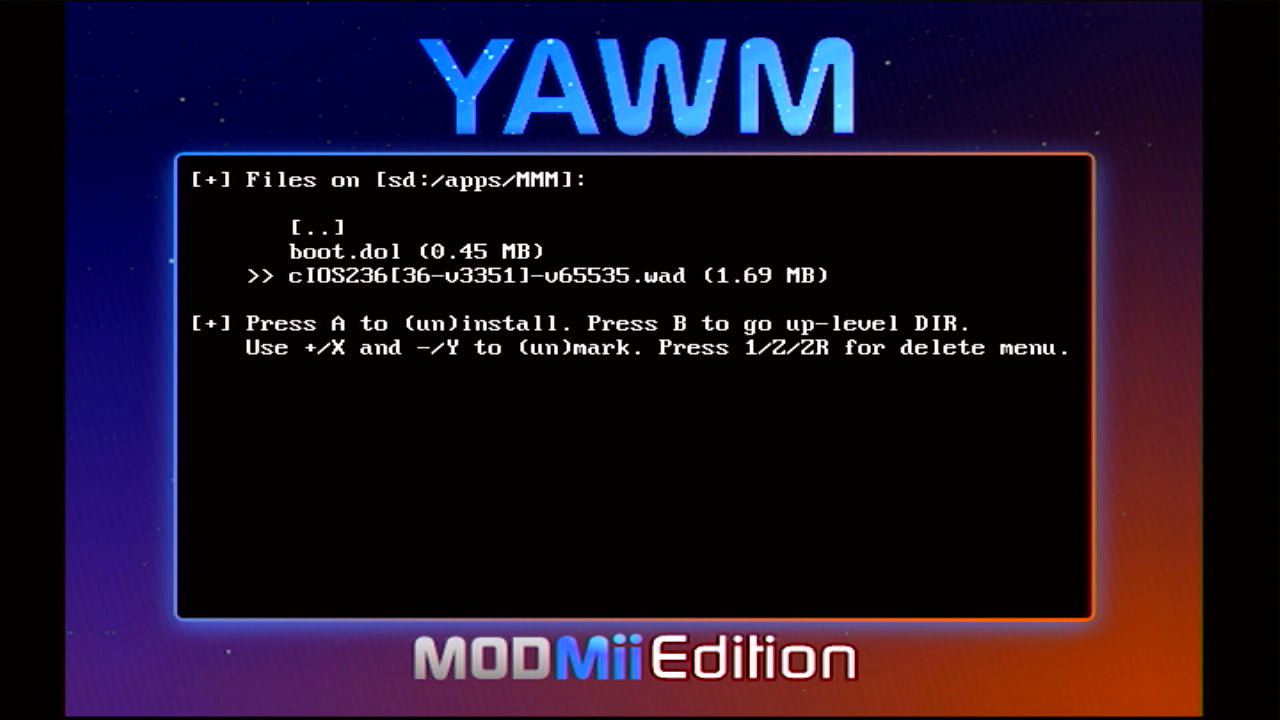
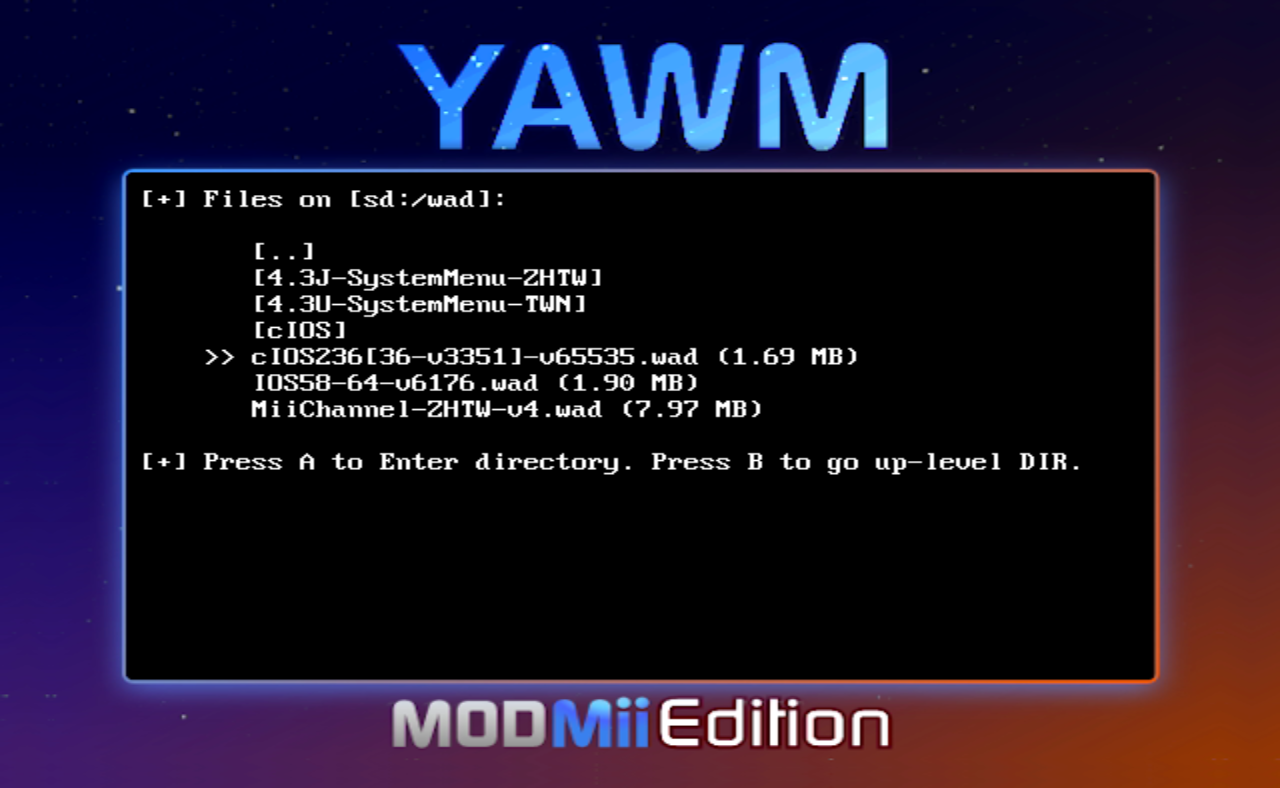
《Step 3: 安装 cIOS236》优化

diff --git a/cios236/README.md b/cios236/README.md
@@ -30,12 +30,15 @@ cIOS236 是官方 IOS36 的补丁版本，它能够为自制 APP 提供稳定的
 
 - IOS36-64-v3608.wad 是最新的 IOS36 安装文件，MMM 将基于它制作出 cIOS236；
 
-- 如果你无法在 MMM 中完成 cIOS236 的安装，在 `apps/MMM` 文件夹里有一个 cIOS236 的安装文件（.wad 格式），请参考[《Step 2: 安装 USB Loader 使用的 cIOS》](@ref step2)中的操作步骤来安装 cIOS236，然后略过本文余下的内容，跳转到[《Step 4: 安装 IOS58》](@ref step4)继续操作：<br/>
+- 如果你无法在 MMM 中安装 cIOS236，请参考[《Step 2: 安装 USB Loader 使用的 cIOS》](@ref step2)中的操作步骤，使用 YAWM ModMii Edition 来安装 `wad` 文件夹里的 cIOS236[36-v3351]-v65535.wad，然后略过本文余下的内容，跳转到[《Step 4: 安装 IOS58》](@ref step4)继续操作：<br/>
   ![](./yawmME-select-cios236.png)
+
+- 使用 Some YAWMM Mod 也能安装 cIOS236[36-v3351]-v65535.wad，操作步骤请参考[《安装 USB Loader 使用的 cIOS（2022 版）》](@ref some-yawmm-mod)：<br/>
+  ![](./yawmm-select-cios236.png)
 
 - MMM 启动之后，会优先选择 cIOS236 进行加载，这是在 SD 卡根目录下的 mmmconfig.txt 中设置的；
 
-- Some YAWMM Mod 启动之后，也会优先选择 cIOS236 进行加载，这是在 wad 文件夹下的 wm_config.txt 中设置的。
+- Some YAWMM Mod 启动之后，也会优先选择 cIOS236 进行加载，这是在 wad 文件夹里的 wm_config.txt 中设置的。
 
 
 ## 四、安装步骤
